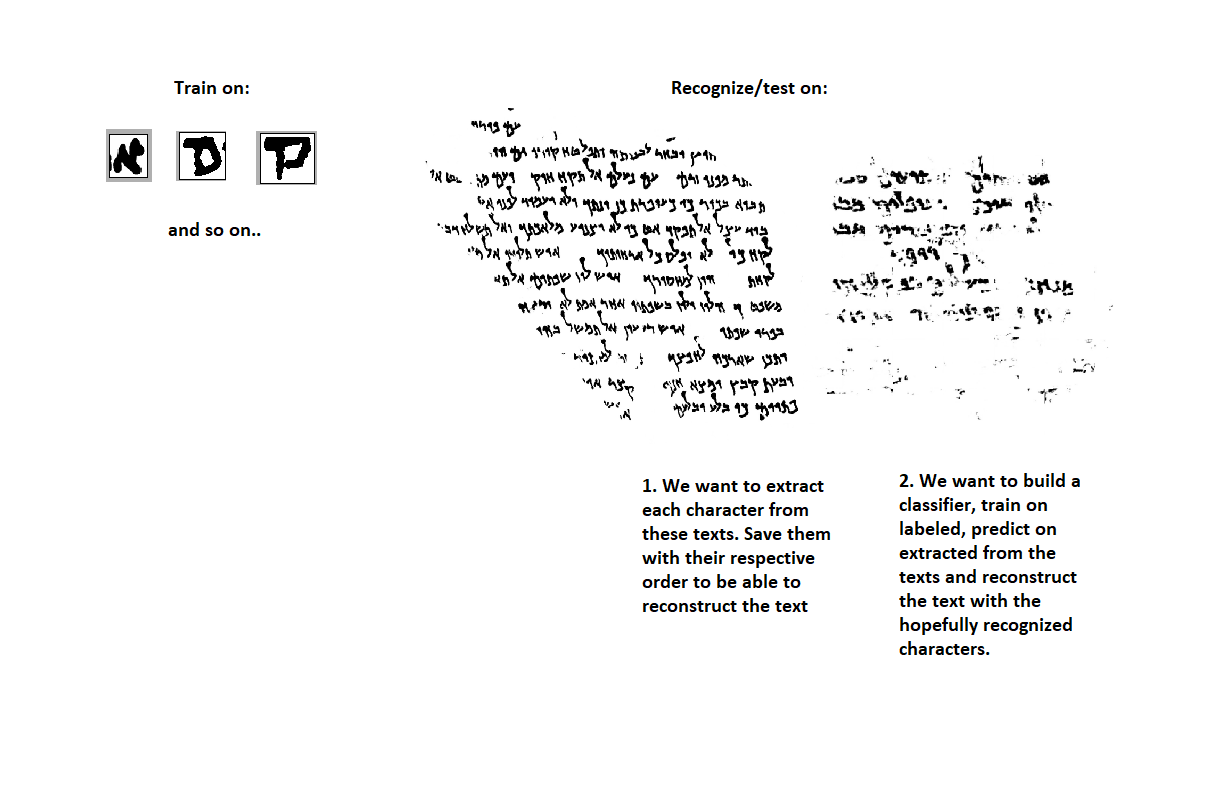
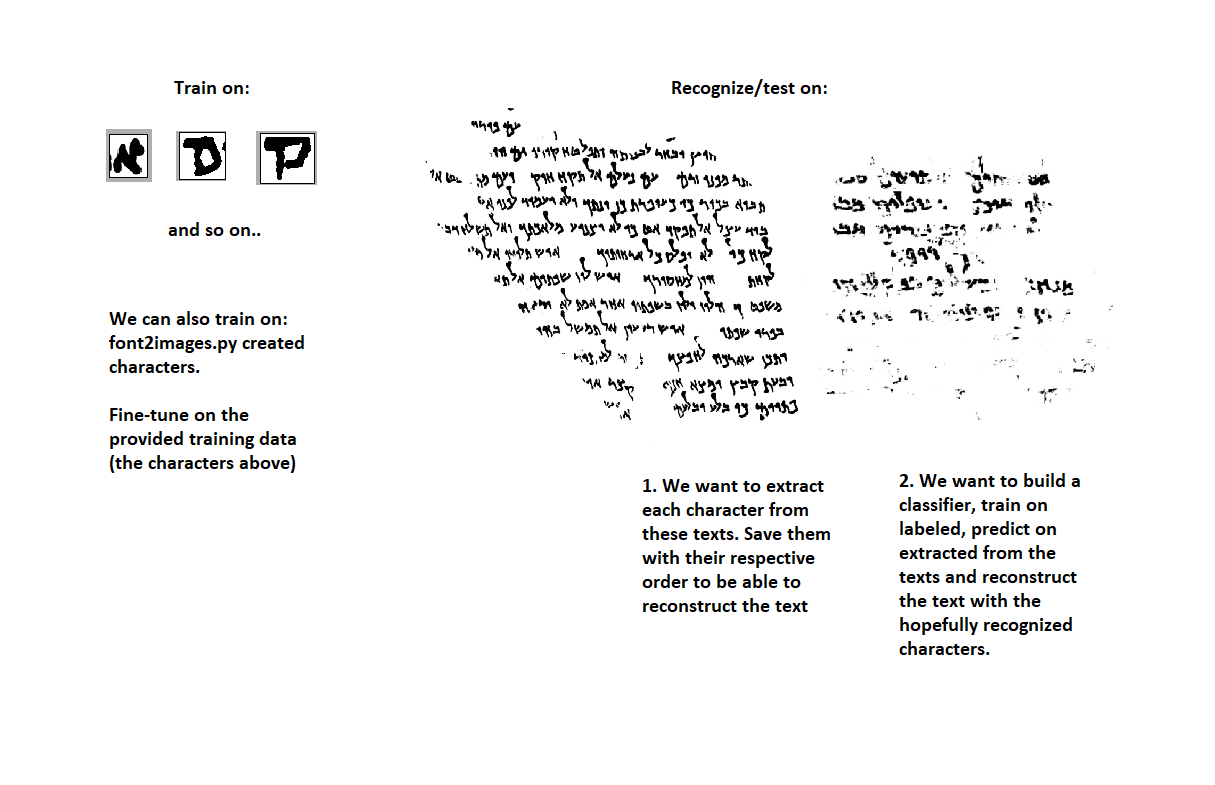
data loader class

Changed region(s): [[0.0914, 0.5197, 0.2436, 0.6115], [0.0914, 0.3975, 0.2436, 0.4892]]

diff --git a/font2images.py b/font2images.py
@@ -1,55 +1,69 @@
-#Uses pillow (you can also use another imaging library if you want)
+# Uses pillow (you can also use another imaging library if you want)
 from PIL import Image, ImageFont, ImageDraw
 
-#Load the font and set the font size to 42
-font = ImageFont.truetype('data\\Habbakuk.ttf', 42)
+# Character mapping for each of the 27 tokens
+char_map = {
+    "Alef": ")",
+    "Ayin": "(",
+    "Bet": "b",
+    "Dalet": "d",
+    "Gimel": "g",
+    "He": "x",
+    "Het": "h",
+    "Kaf": "k",
+    "Kaf-final": "\\",
+    "Lamed": "l",
+    "Mem": "{",
+    "Mem-medial": "m",
+    "Nun-final": "}",
+    "Nun-medial": "n",
+    "Pe": "p",
+    "Pe-final": "v",
+    "Qof": "q",
+    "Resh": "r",
+    "Samekh": "s",
+    "Shin": "$",
+    "Taw": "t",
+    "Tet": "+",
+    "Tsadi-final": "j",
+    "Tsadi-medial": "c",
+    "Waw": "w",
+    "Yod": "y",
+    "Zayin": "z",
+}
 
-#Character mapping for each of the 27 tokens
-char_map = {'Alef' : ')', 
-            'Ayin' : '(', 
-            'Bet' : 'b', 
-            'Dalet' : 'd', 
-            'Gimel' : 'g', 
-            'He' : 'x', 
-            'Het' : 'h', 
-            'Kaf' : 'k', 
-            'Kaf-final' : '\\', 
-            'Lamed' : 'l', 
-            'Mem' : '{', 
-            'Mem-medial' : 'm', 
-            'Nun-final' : '}', 
-            'Nun-medial' : 'n', 
-            'Pe' : 'p', 
-            'Pe-final' : 'v', 
-            'Qof' : 'q', 
-            'Resh' : 'r', 
-            'Samekh' : 's', 
-            'Shin' : '$', 
-            'Taw' : 't', 
-            'Tet' : '+', 
-            
-            'Tsadi-final' : 'j', 
-            'Tsadi-medial' : 'c', 
-            'Waw' : 'w', 
-            'Yod' : 'y', 
-            'Zayin' : 'z'}
+# Returns a grayscale image based on specified label of img_size
+def create_image(label, img_size, font_size):
+    if label not in char_map:
+        raise KeyError("Unknown label!")
 
-#Returns a grayscale image based on specified label of img_size
-def create_image(label, img_size):
-    if (label not in char_map):
-        raise KeyError('Unknown label!')
-
-    #Create blank image and create a draw interface
-    img = Image.new('L', img_size, 255)    
+    # Create blank image and create a draw interface
+    img = Image.new("L", img_size, 255)
     draw = ImageDraw.Draw(img)
 
-    #Get size of the font and draw the token in the center of the blank image
-    w,h = font.getsize(char_map[label])
-    draw.text(((img_size[0]-w)/2, (img_size[1]-h)/2), char_map[label], 0, font)
+    # Get size of the font and draw the token in the center of the blank image
+    w, h = font_size.getsize(char_map[label])
+    draw.text(
+        ((img_size[0] - w) / 2, (img_size[1] - h) / 2), char_map[label], 0, font_size
+    )
 
     return img
 
-#Create a 50x50 image of the Alef token and save it to disk
-#To get the raw data cast it to a numpy array
-img = create_image('Alef', (50, 50))
-img.save('example_alef.png')
+
+import os
+
+# Create a 50x50 image of the Alef token and save it to disk
+# To get the raw data cast it to a numpy array
+
+char_name = "Lamed"
+
+for i in range(50, 500, 50):
+    font_size = ImageFont.truetype("data\\Habbakuk.ttf", i)
+
+    img = create_image(char_name, (i + 8, i + 8), font_size)
+
+    if not os.path.exists("data\\generated_characters\\{}".format(char_name)):
+        os.makedirs("data\\generated_characters\\{}".format(char_name))
+    img.save(
+        "data\\generated_characters\\{}\\example_lamed_font_{}.png".format(char_name, i)
+    )

diff --git a/data_loader.py b/data_loader.py
@@ -1,0 +1,101 @@
+import os
+from pathlib import Path
+import cv2
+
+"""
+Take a look into these:
+https://docs.opencv.org/3.4/d8/d6a/group__imgcodecs__flags.html
+the flags that set the color when loading the image. Discuss with group.
+"""
+
+
+class DataLoader:
+    def __init__(self) -> None:
+        pass
+
+    def get_characters_train_data(
+        self, path: Path, list_of_letters: list = list(), num_samples: int = 300
+    ) -> dict():
+        """Loads all or chosen by user training images for letters.
+
+        Args:
+            path: Path to training characters folder
+            list_of_letters: List of chosen letters from user. If you don't want
+                to load all 27 letters, you can for example: ["Bet", "Dalet"].
+                Defaults to empty list, which loads all 27 letters.
+            num_samples: Number of samples per letter you want to load.
+                Defaults to 300, which loads all samples for each letter.
+        Returns:
+            dict_of_result: Dictionary with key - letter name and value - list of
+                loaded samples for the following letter.
+        """
+
+        dict_of_result = dict()
+
+        for letter_dir_name in os.listdir(path):
+            if len(list_of_letters) != 0 and letter_dir_name in list_of_letters:
+                path_to_letter_dir = os.path.join(path, letter_dir_name)
+                list_of_loaded_images = self._load_character_train_data(
+                    path_to_letter_dir, num_samples
+                )
+                dict_of_result[letter_dir_name] = list_of_loaded_images
+
+            elif len(list_of_letters) == 0:
+                path_to_letter_dir = os.path.join(path, letter_dir_name)
+                list_of_loaded_images = self._load_character_train_data(
+                    path_to_letter_dir, num_samples
+                )
+                dict_of_result[letter_dir_name] = list_of_loaded_images
+
+        return dict_of_result
+
+    def _load_character_train_data(
+        self, path_to_char_dir: Path, num_samples: int
+    ) -> list:
+        list_of_result = list()
+        for idx, char_image in enumerate(os.listdir(path_to_char_dir)):
+            if idx == num_samples:
+                break
+
+            list_of_result.append(
+                cv2.imread(os.path.join(path_to_char_dir, char_image), -1)
+            )
+
+        return list_of_result
+
+    def get_sea_scrolls_images(self, path: Path) -> list():
+        """Get all binarized sea scrolls images.
+
+        Args:
+            path: Path to the sea scrolls images.
+
+        Returns:
+            list_of_result: List contatining all loaded images.
+        """
+        list_of_result = list()
+        for image in os.listdir(path):
+            if image.endswith("binarized.jpg"):
+                list_of_result.append(cv2.imread(os.path.join(path, image), 0))
+
+        return list_of_result
+
+
+# Test the methods
+""" 
+data_loader = DataLoader()
+dict_result = data_loader.get_characters_train_data(
+    path="D:\\PythonProjects\\HWR_group_5\\data\\character_set_labeled",
+    num_samples=20,
+)
+
+for k, v in dict_result.items():
+    print(k)
+    print(len(v))
+    print("----------")
+
+list_of_binarized = data_loader.get_sea_scrolls_images(
+    path="D:\\PythonProjects\\HWR_group_5\\data\\dead_sea_scrolls_images"
+)
+
+print(list_of_binarized)
+"""
